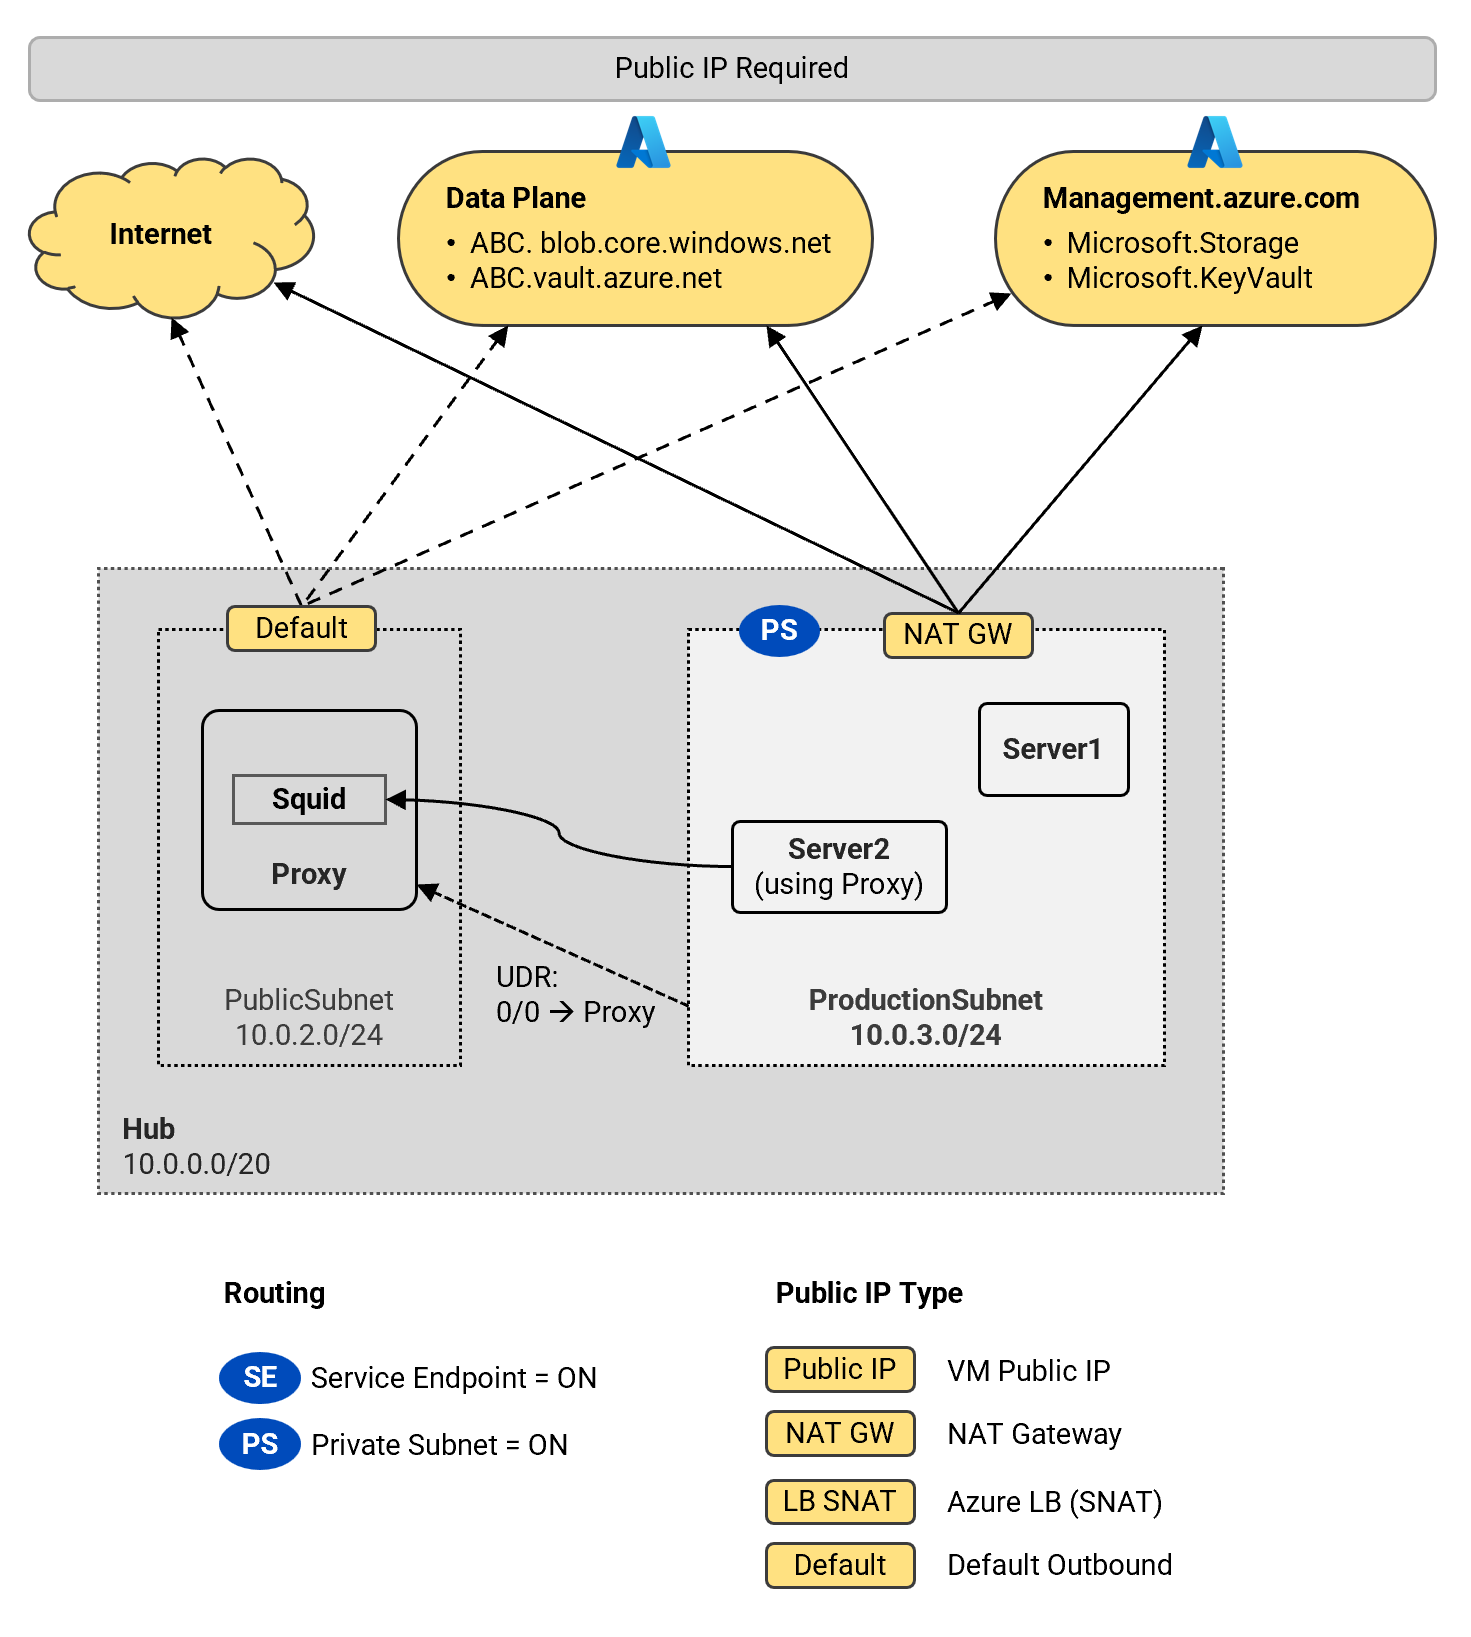
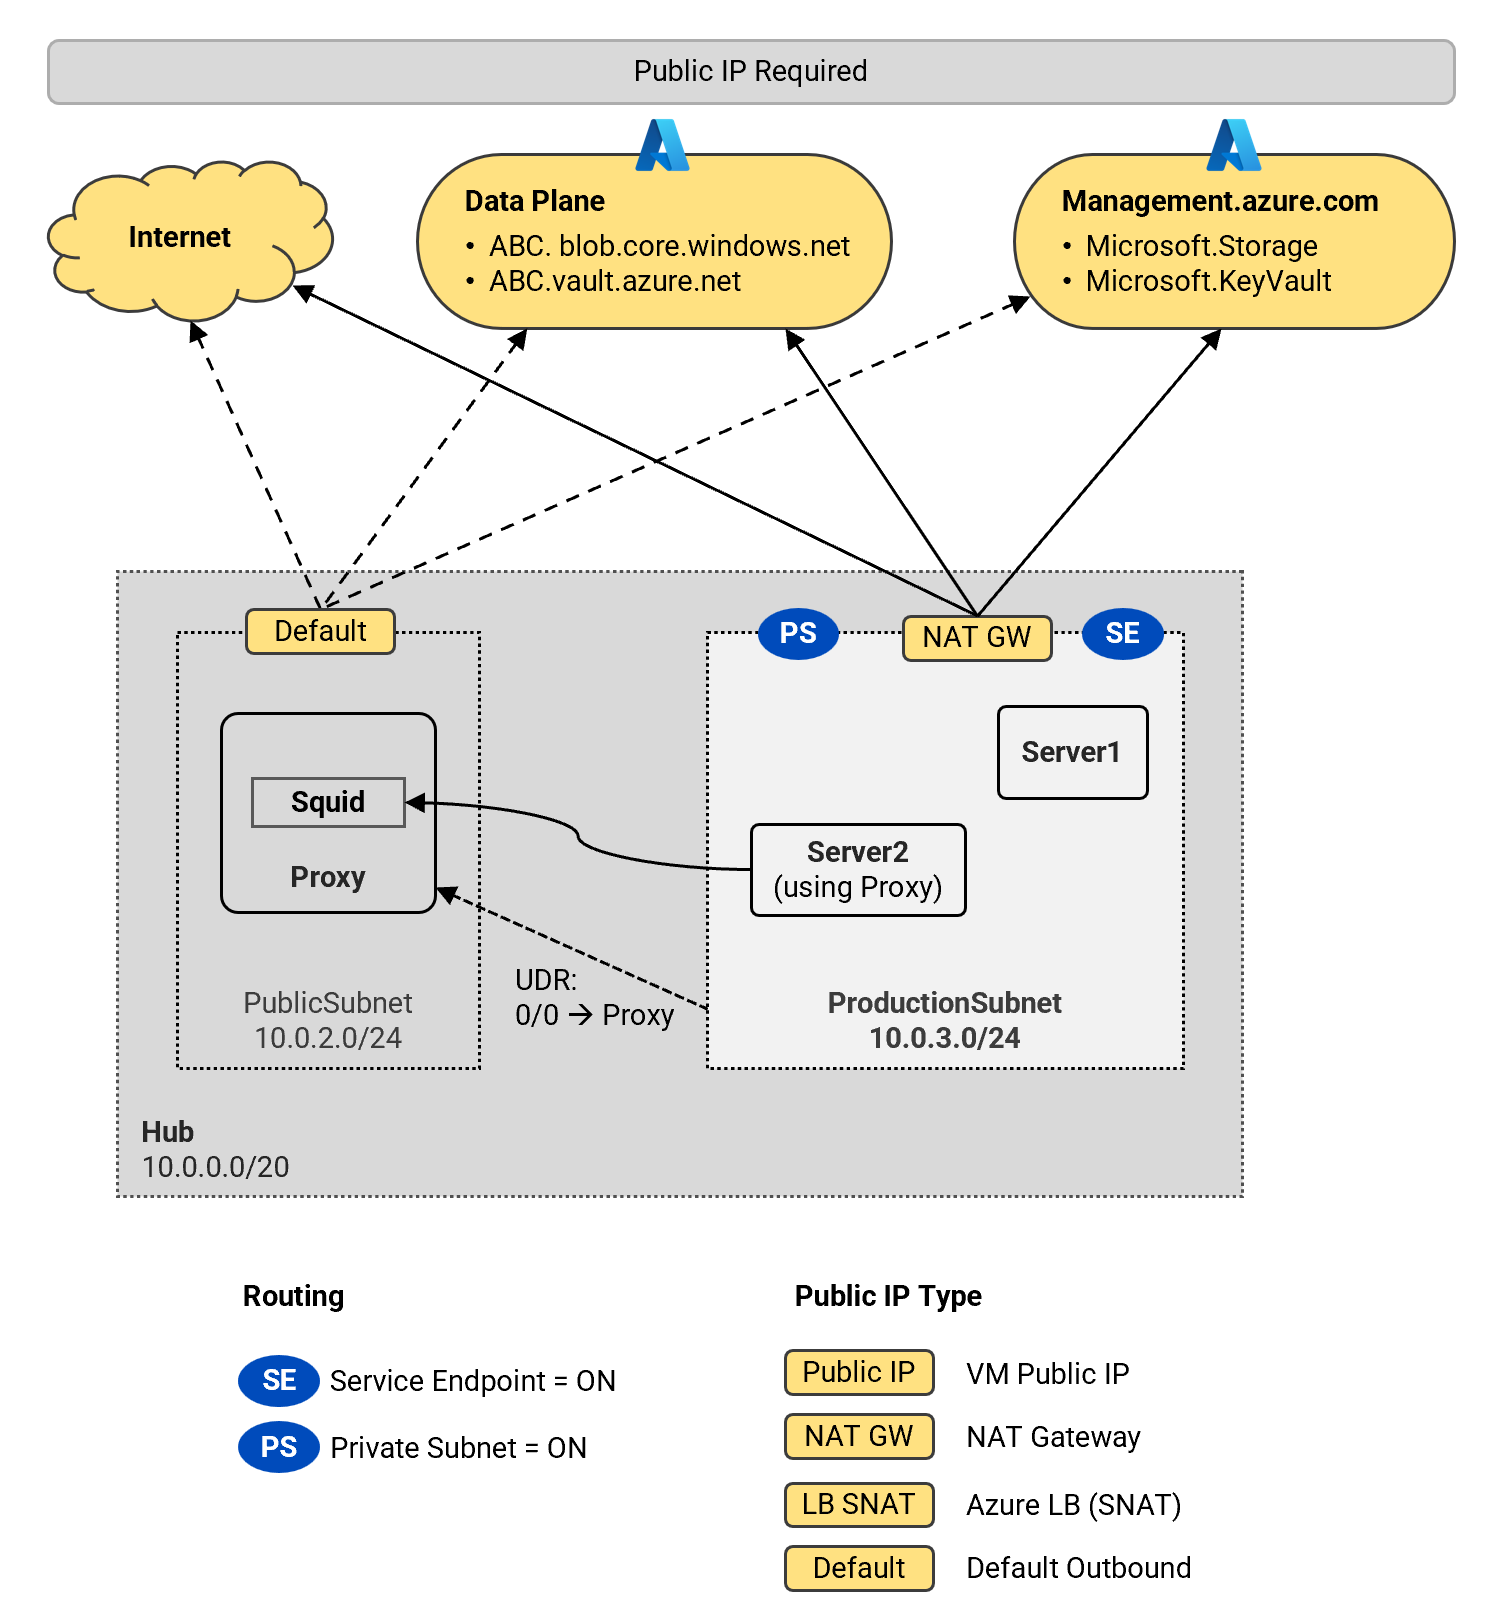
update

diff --git a/4-general/10-network-egress-scenarios/README.md b/4-general/10-network-egress-scenarios/README.md
@@ -12,7 +12,8 @@ Contents
 - [Test Servers](#test-servers)
 - [Egress Test Results](#egress-test-results)
   - [A. No Explicit Outbound Method, Private-Subnet = Off, Service-Endpoint = Off](#a-no-explicit-outbound-method-private-subnet--off-service-endpoint--off)
-  - [B. NAT-Gateway, Private-Subnet = On, Service-Endpoint = Off](#b-nat-gateway-private-subnet--on-service-endpoint--off)
+  - [B. NAT-Gateway, Private-Subnet = On, Service-Endpoint = On](#b-nat-gateway-private-subnet--on-service-endpoint--on)
+  - [BB. NAT-Gateway, Private-Subnet = On, Service-Endpoint = Off](#bb-nat-gateway-private-subnet--on-service-endpoint--off)
   - [C. Default Outbound Access, Service-Endpoint = Off](#c-default-outbound-access-service-endpoint--off)
   - [D. Private Subnet and Service Endpoints](#d-private-subnet-and-service-endpoints)
   - [E. Private Subnet and Service Tag UDR](#e-private-subnet-and-service-tag-udr)
@@ -143,10 +144,10 @@ From here, you can run the `crawlz` command to test service reachability to vari
    <td><strong>KeyVault</strong></td>
   </tr>
   <tr>
-   <td>A</td><td></td><td></td><td></td><td></td><td></td><td></td><td>X</td><td>Yes</td><td>Yes<td>Yes<td>Yes</td>
+   <td>A</td><td>PublicSubnet</td><td></td><td></td><td></td><td></td><td></td><td>X</td><td>Yes</td><td>Yes<td>Yes<td>Yes</td>
   </tr>
   <tr>
-   <td>B</td><td></td><td></td><td>X</td><td>X</td><td></td><td></td><td></td><td>N</td><td>NA<td>NA<td>NA</td>
+   <td>B</td><td>Production</td><td>X</td><td>X</td><td>X</td><td></td><td></td><td></td><td>Yes</td><td>Yes<td>Yes<td>Yes</td>
   </tr>
   <tr>
    <td>C</td><td>Production</td><td></td><td>OFF</td><td>Y</td><td>Z</td><td>A</td><td>Y</td><td>N</td><td>NA<td>NA<td>NA</td>
@@ -300,7 +301,153 @@ Results
 </details>
 <p>
 
-### B. NAT-Gateway, Private-Subnet = On, Service-Endpoint = Off
+### B. NAT-Gateway, Private-Subnet = On, Service-Endpoint = On
+
+When private subnet is enabled on `ProductionSubnet` associated with a NAT gateway, the VM `G10-Server1` can access the internet, Azure services, and management services. Traffic to all public endpoints are sourced from the NAT gateway public IP address. Traffic to service endpoints do not require public IP addresses.
+
+<img src="./images/egress-scenario-b.png" alt="Scenario B" width="650">
+
+**Test instructions:**
+
+Private subnet is already enabled on `ProductionSubnet`. The subnet is also already associated with a NAT gateway.
+
+1\. Login to `G10-Server1` VM as described in the [Test Servers](#test-servers) section.
+
+2\. Run the command `crawlz` to test network reachability.
+
+**Summary:**
+
+```sh
+-------------------------------------
+Environment
+-------------------------------------
+VM Name:        G10-Server1
+Resource Group: G10_NETWORKEGRESS_RG
+Location:       northeurope
+VNET Name:      G10-hub-vnet
+Subnet Name:    ProductionSubnet
+Private IP:     10.0.3.4
+-------------------------------------
+Results
+-------------------------------------
+1. NAT_IP_Type:         NatGw
+2. Service_Endpoints:   True
+3. Private_Subnet:      True
+4. Internet_Access:     Yes
+5. Management_Access:   Yes
+6. Blob_Access:         Yes
+7. KeyVault_Access:     Yes
+-------------------------------------
+```
+
+**Detailed Result:**
+
+<details>
+
+<summary>Detailed Result</summary>
+
+```sh
+azureuser@Server1:~$ crawlz
+
+ Service Crawler initiating ...
+
+* Extracting az token...
+* Downloading service tags JSON...
+
+-------------------------------------
+Environment
+-------------------------------------
+VM Name:        G10-Server1
+Resource Group: G10_NETWORKEGRESS_RG
+Location:       northeurope
+VNET Name:      G10-hub-vnet
+Subnet Name:    ProductionSubnet
+Private IP:     10.0.3.4
+-------------------------------------
+
+1. Check Public Address Type
+   Local IP:    10.0.3.4
+   Public IP:   13.74.117.25
+   Address type: NatGw
+
+2. Check Service Endpoints
+   Subnet --> ProductionSubnet
+   Service EP: True
+  - Microsoft.Storage
+  - Microsoft.KeyVault
+  - Microsoft.Sql
+  - Microsoft.ServiceBus
+  - Microsoft.EventHub
+  - Microsoft.AzureActiveDirectory
+  - Microsoft.Web
+  - Microsoft.CognitiveServices
+  - Microsoft.ContainerRegistry
+  - Microsoft.AzureCosmosDB
+
+3. Check Private Subnet
+   Subnet --> ProductionSubnet
+   DefaultOutbound: false
+   Private Subnet:  True
+
+4. Check Internet Access
+   Connecting to https://ifconfig.me ...
+   Access: Yes (200)
+
+5. Management (Control Plane)
+   url = https://management.azure.com/subscriptions?api-version=2020-01-01
+   host = management.azure.com
+   52.146.134.240 <-- management.azure.com
+   Searching for service tags matching 52.146.134.240
+   - 52.146.134.0/23 <-- AzureResourceManager ()
+   - 52.146.134.0/23 <-- AzureResourceManager.NorthEurope (northeurope)
+   - 52.146.128.0/17 <-- AzureCloud.northeurope (northeurope)
+   - 52.146.128.0/17 <-- AzureCloud ()
+   Testing access to management.azure.com
+   Access: Yes (200)
+
+6. Blob (Data Plane)
+   url = https://g10hub99a2.blob.core.windows.net/storage/storage.txt
+   host = g10hub99a2.blob.core.windows.net
+   20.60.204.97 <-- g10hub99a2.blob.core.windows.net
+   Searching for service tags matching 20.60.204.97
+   - 20.60.0.0/16 <-- Storage ()
+   - 20.60.204.0/23 <-- Storage.NorthEurope (northeurope)
+   - 20.60.204.0/23 <-- AzureCloud.northeurope (northeurope)
+   - 20.60.204.0/23 <-- AzureCloud ()
+   Retrieving blob content ...
+   Content: Hello, World!
+   Access: Yes
+
+7. KeyVault (Data Plane)
+   url: https://g10-hub-kv99a2.vault.azure.net/secrets/message
+   host: g10-hub-kv99a2.vault.azure.net
+   52.146.137.169 <-- g10-hub-kv99a2.vault.azure.net
+   Searching for service tags matching 52.146.137.169
+   - 52.146.137.168/29 <-- AzureKeyVault ()
+   - 52.146.137.168/29 <-- AzureKeyVault.NorthEurope (northeurope)
+   - 52.146.128.0/17 <-- AzureCloud.northeurope (northeurope)
+   - 52.146.128.0/17 <-- AzureCloud ()
+   Accessing secret ...
+   message: Hello, World!
+   Access: Yes
+
+-------------------------------------
+Results
+-------------------------------------
+1. NAT_IP_Type:         NatGw
+2. Service_Endpoints:   True
+3. Private_Subnet:      True
+4. Internet_Access:     Yes
+5. Management_Access:   Yes
+6. Blob_Access:         Yes
+7. KeyVault_Access:     Yes
+-------------------------------------
+```
+
+</details>
+<p>
+
+### BB. NAT-Gateway, Private-Subnet = On, Service-Endpoint = Off
 
 When private subnet is enabled on `ProductionSubnet` associated with a NAT gateway, the VM `G10-Server1` can access the internet, Azure services, and management services. Traffic to all public endpoints are sourced from the NAT gateway public IP address.
 
